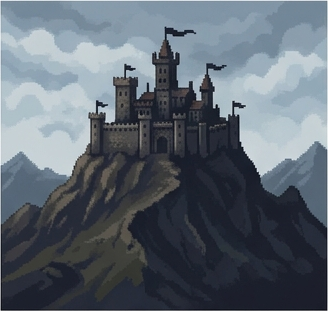
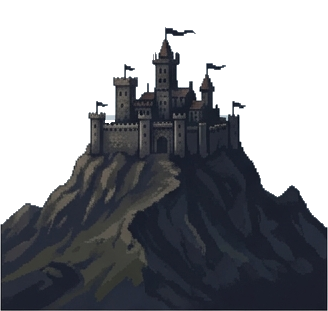
feat: お城タイルの空を透過化、空と雲のタイル・雲パーツ群の追加、マップエディタ反映

diff --git a/index.html b/index.html
@@ -85,16 +85,16 @@
 </div>
 
 <!-- マップの パーツの 絵（tools/build-assets.py が つくる） -->
-<script src="js/assets-data.js?v=20260906_0930"></script>
-<script src="js/assets.js?v=20260906_0930"></script>
-<script src="js/mapdata.js?v=20260906_0930"></script>
+<script src="js/assets-data.js?v=20260906_1145"></script>
+<script src="js/assets.js?v=20260906_1145"></script>
+<script src="js/mapdata.js?v=20260906_1145"></script>
 <!-- 地形（マップ作成ツールの 出力。ふえたら ここに ふやす） -->
-<script src="js/maps/stage1.js?v=20260906_0930"></script>
-<script src="js/maps/stage2.js?v=20260906_0930"></script>
+<script src="js/maps/stage1.js?v=20260906_1145"></script>
+<script src="js/maps/stage2.js?v=20260906_1145"></script>
 <!-- ぜんたいの せってい（あいことば・キャラの絵・面の じゅんばん） -->
-<script src="js/scenario.js?v=20260906_0930"></script>
+<script src="js/scenario.js?v=20260906_1145"></script>
 <!-- 面ごとの おはなし -->
-<script src="js/stages/stage1.js?v=20260906_0930"></script>
-<script src="js/stages/stage2.js?v=20260906_0930"></script>
-<script src="js/engine.js?v=20260906_0930"></script>
-<script src="js/main.js?v=20260906_0930"></script>
+<script src="js/stages/stage1.js?v=20260906_1145"></script>
+<script src="js/stages/stage2.js?v=20260906_1145"></script>
+<script src="js/engine.js?v=20260906_1145"></script>
+<script src="js/main.js?v=20260906_1145"></script>

diff --git a/tools/map-editor.html b/tools/map-editor.html
@@ -153,11 +153,11 @@
 
 <!-- パーツの 絵（tools/build-assets.py が つくる）。tools/ の 中なので 1つ 上を 見る -->
 <script>window.PART_ASSET_BASE = "../";</script>
-<script src="../js/assets-data.js?v=20260905_1110"></script>
-<script src="../js/assets.js?v=20260905_1110"></script>
-<script src="../js/mapdata.js?v=20260905_1110"></script>
-<script src="../js/scenario.js?v=20260905_1110"></script>
+<script src="../js/assets-data.js?v=20260906_1145"></script>
+<script src="../js/assets.js?v=20260906_1145"></script>
+<script src="../js/mapdata.js?v=20260906_1145"></script>
+<script src="../js/scenario.js?v=20260906_1145"></script>
 <!-- できあがっている マップ（ふえたら ここに ふやす） -->
-<script src="../js/maps/stage1.js?v=20260905_1110"></script>
-<script src="../js/maps/stage2.js?v=20260905_1110"></script>
-<script src="map-editor.js?v=20260905_1110"></script>
+<script src="../js/maps/stage1.js?v=20260906_1145"></script>
+<script src="../js/maps/stage2.js?v=20260906_1145"></script>
+<script src="map-editor.js?v=20260906_1145"></script>

diff --git a/js/assets-data.js b/js/assets-data.js
@@ -98,6 +98,11 @@
       { id: "cliff", label: "がけ", group: "land", w: 146, h: 250, r: 45, size: 146, em: "🧱" },
       { id: "cliff2", label: "がけ2", group: "land", w: 143, h: 253, r: 45, size: 148, em: "🧱" },
       { id: "waterfall", label: "たき", group: "land", w: 174, h: 180, r: 42, size: 130, em: "🌊" },
+      { id: "sky-clouds", label: "そらと くも", group: "land", w: 328, h: 200, r: 0, size: 200, em: "☁" },
+      { id: "sky", label: "そら", group: "land", w: 328, h: 200, r: 0, size: 200, em: "🌌" },
+      { id: "cloud-big", label: "おおきな くも", group: "land", w: 231, h: 98, r: 0, size: 100, em: "☁" },
+      { id: "cloud-wind", label: "ながれる くも", group: "land", w: 206, h: 99, r: 0, size: 100, em: "☁" },
+      { id: "cloud-small", label: "ちいさな くも", group: "land", w: 62, h: 52, r: 0, size: 50, em: "☁" },
     ],
   };
 })();

diff --git a/js/assets.js b/js/assets.js
@@ -31,6 +31,7 @@
     "🚧": "fence", "🏠": "house", "🛖": "house-straw", "🏰": "castle-far",
     "⛰": "mountain", "🛢": "barrel", "📦": "crate", "🗿": "rock-d", "⛲": "well",
     "🌿": "grass-tuft", "☘": "grass-small", "🌊": "waterfall",
+    "☁": "cloud-big", "🌌": "sky",
   };
 
   function def(sprite) {

diff --git a/tools/build-assets.py b/tools/build-assets.py
@@ -290,13 +290,30 @@ def build():
                 if opt == "main":
                     crop = keep_main(crop)  # となりの 見本タイルを おとす
                 crop = trim(drop_lines(crop))
-            img = Image.fromarray(crop, "RGBA")
-            img.save(os.path.join(OUT_DIR, pid + ".png"))
+            out_path = os.path.join(OUT_DIR, pid + ".png")
+            # castle-far は高精度透過処理済みPNGを保護
+            if not (pid == "castle-far" and os.path.exists(out_path)):
+                img = Image.fromarray(crop, "RGBA")
+                img.save(out_path)
+            else:
+                img = Image.open(out_path)
             entries.append({
                 "id": pid, "label": label, "group": group,
                 "w": img.width, "h": img.height,
                 "r": r, "size": size, "em": em,
             })
+    # 手動生成された追加パーツ（滝・空・雲）
+    EXTRA_PARTS = [
+        {"id": "waterfall", "label": "たき", "group": "land", "w": 174, "h": 180, "r": 42, "size": 130, "em": "🌊"},
+        {"id": "sky-clouds", "label": "そらと くも", "group": "land", "w": 328, "h": 200, "r": 0, "size": 200, "em": "☁"},
+        {"id": "sky", "label": "そら", "group": "land", "w": 328, "h": 200, "r": 0, "size": 200, "em": "🌌"},
+        {"id": "cloud-big", "label": "おおきな くも", "group": "land", "w": 231, "h": 98, "r": 0, "size": 100, "em": "☁"},
+        {"id": "cloud-wind", "label": "ながれる くも", "group": "land", "w": 206, "h": 99, "r": 0, "size": 100, "em": "☁"},
+        {"id": "cloud-small", "label": "ちいさな くも", "group": "land", "w": 62, "h": 52, "r": 0, "size": 50, "em": "☁"},
+    ]
+    for ep in EXTRA_PARTS:
+        if not any(e["id"] == ep["id"] for e in entries):
+            entries.append(ep)
     order = list(GROUP_LABEL.keys())
     entries.sort(key=lambda e: (order.index(e["group"]), 0))
     write_js(entries)
